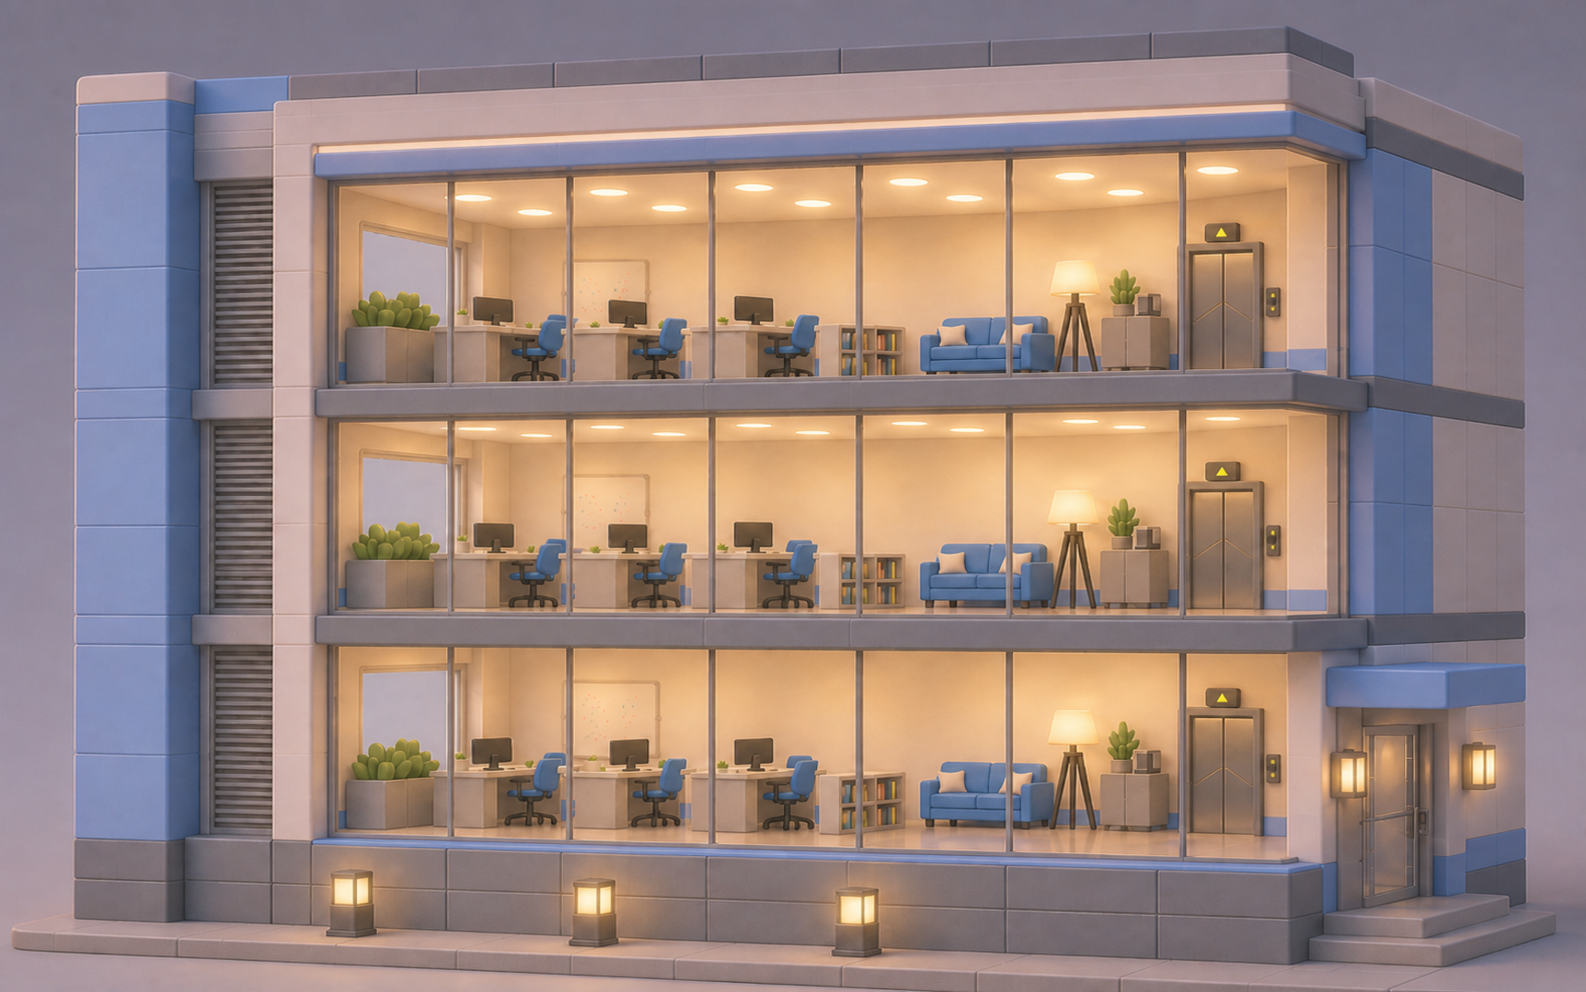
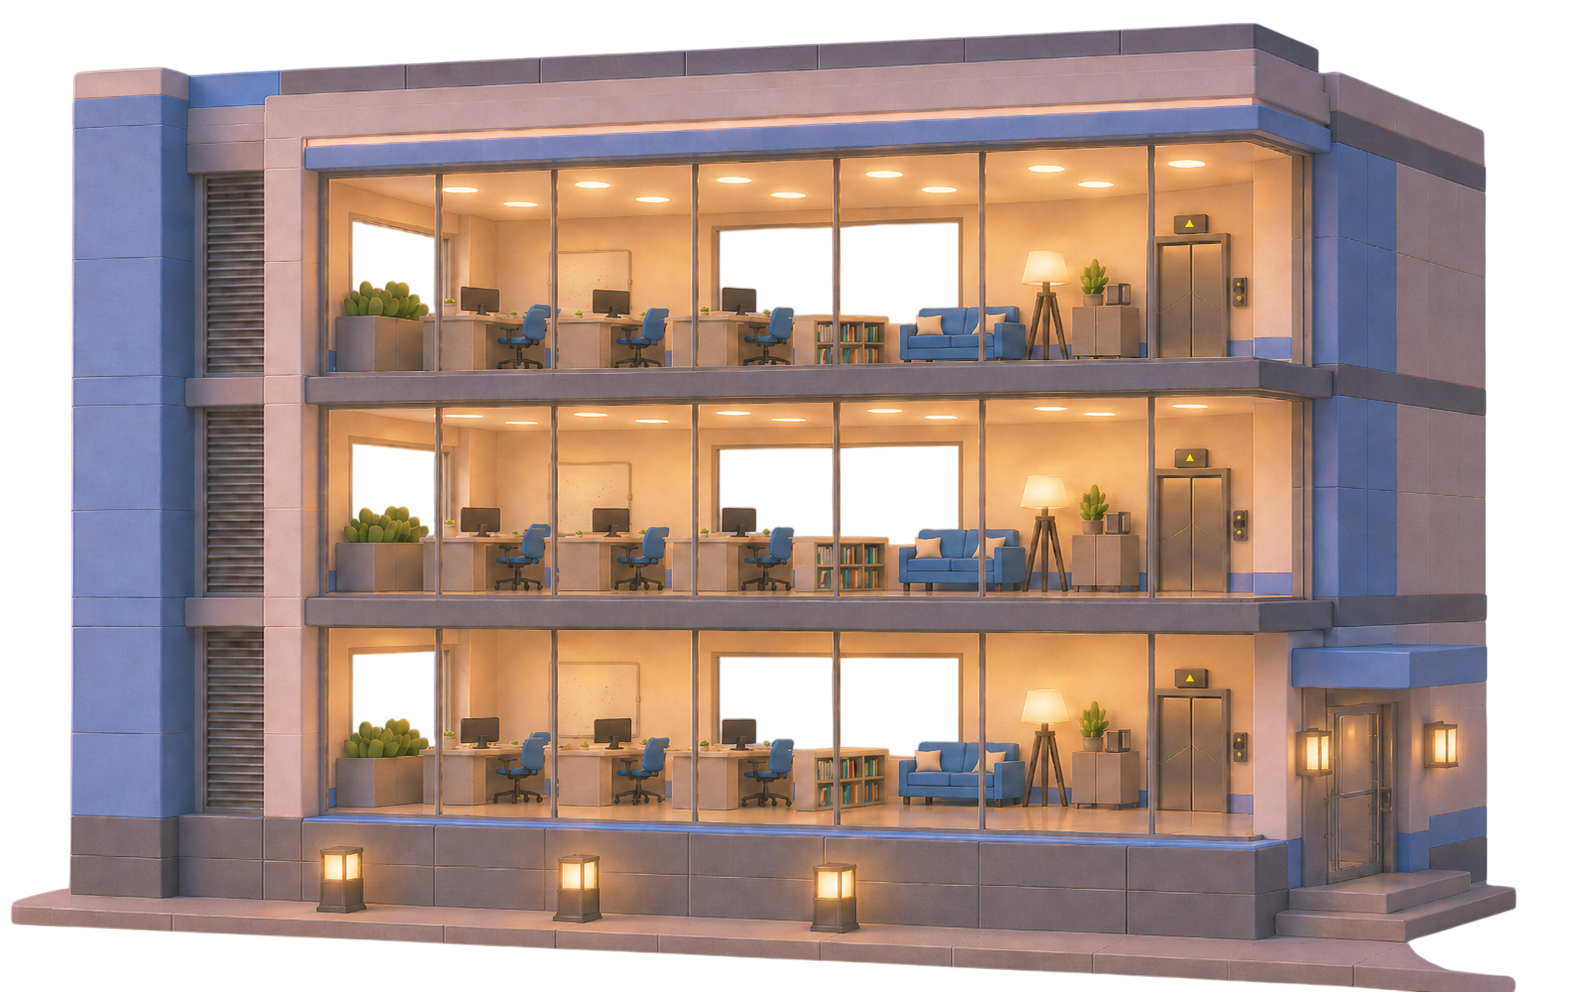
FE-design : 에이전트 전체 시각화 건물 이미지 변경

diff --git a/frontend/src/pages/AgentStatusPage.tsx b/frontend/src/pages/AgentStatusPage.tsx
@@ -618,14 +618,6 @@ export function AgentStatusPage() {
   const [selectedId, setSelectedId] = useState('agent01')
   const [ceoMode, setCeoMode] = useState<'desk' | 'explain'>('desk')
   const [panelTop, setPanelTop] = useState(false)
-  const [obstacleMode, setObstacleMode] = useState(false)
-  const [lineMode, setLineMode] = useState(false)
-  const [drawnRects, setDrawnRects] = useState<
-    { x1: number; y1: number; x2: number; y2: number }[]
-  >([])
-  const [drawnLines, setDrawnLines] = useState<
-    { x1: number; y1: number; x2: number; y2: number }[]
-  >([])
   const [navmeshGrid, setNavmeshGrid] = useState<boolean[][] | null>(null)
   const runtimeGridRef = useRef<boolean[][]>(OBSTACLE_GRID)
   const walkTimersRef = useRef<Record<string, ReturnType<typeof setTimeout> | undefined>>({})
@@ -648,22 +640,8 @@ export function AgentStatusPage() {
   }, [])
 
   useEffect(() => {
-    const g = (navmeshGrid ?? OBSTACLE_GRID).map((r) => [...r])
-    for (const rect of drawnRects) {
-      for (let gy = Math.floor(rect.y1 / CELL); gy <= Math.floor(rect.y2 / CELL); gy++) {
-        for (let gx = Math.floor(rect.x1 / CELL); gx <= Math.floor(rect.x2 / CELL); gx++) {
-          if (gy >= 0 && gy < GRID_H && gx >= 0 && gx < GRID_W) g[gy][gx] = true
-        }
-      }
-    }
-    for (const line of drawnLines) {
-      for (const cell of rasterizeLine(line.x1, line.y1, line.x2, line.y2)) {
-        if (cell.gy >= 0 && cell.gy < GRID_H && cell.gx >= 0 && cell.gx < GRID_W)
-          g[cell.gy][cell.gx] = true
-      }
-    }
-    runtimeGridRef.current = g
-  }, [drawnLines, drawnRects, navmeshGrid])
+    runtimeGridRef.current = (navmeshGrid ?? OBSTACLE_GRID).map((r) => [...r])
+  }, [navmeshGrid])
 
   const clearWalkTimer = (agentId: string) => {
     const timer = walkTimersRef.current[agentId]
@@ -737,8 +715,11 @@ export function AgentStatusPage() {
         findPath(agent.position, destPoint, passableRects, pathGrid, passableLines)
 
       const lastStop = waypoints[waypoints.length - 1]
+      // 소파는 SOFA_SPOTS의 고정 좌표를 항상 사용 — isOccupiedByAnotherAgent 반경(90px)이 소파 두 자리 간격(~51px)보다 커서 좌표가 셀 중심으로 벗어나는 문제 방지
       const finalPosition =
-        lastStop && isOccupiedByAnotherAgent(destPoint, prev, agentId) ? lastStop : destPoint
+        internalDest !== 'sofa' && lastStop && isOccupiedByAnotherAgent(destPoint, prev, agentId)
+          ? lastStop
+          : destPoint
       const allStops = waypoints
       const firstStop = allStops[0]
       if (!firstStop) {
@@ -869,61 +850,9 @@ export function AgentStatusPage() {
 
   const selectedAgent = agents.find((a) => a.config.id === selectedId)
 
-  const handleNewRect = (rect: { x1: number; y1: number; x2: number; y2: number }) => {
-    setDrawnRects((prev) => [...prev, rect])
-  }
-
-  const handleNewLine = (line: { x1: number; y1: number; x2: number; y2: number }) => {
-    setDrawnLines((prev) => [...prev, line])
-  }
-
   return (
     <div className="relative flex flex-1 overflow-hidden">
-      <OfficeMap
-        agents={agents}
-        onAgentArrived={handleAgentArrived}
-        ceoMode={ceoMode}
-        obstacleMode={obstacleMode}
-        obstacleRects={drawnRects}
-        onNewRect={handleNewRect}
-        obstacleLineMode={lineMode}
-        obstacleLines={drawnLines}
-        onNewLine={handleNewLine}
-      />
-
-      {/* 장애물 좌표 패널 */}
-      {(drawnRects.length > 0 || drawnLines.length > 0) && (
-        <div className="absolute top-4 left-4 z-20 max-w-xs">
-          <div className="flex flex-col gap-2 rounded-xl border border-red-500/40 bg-black/80 px-4 py-3 backdrop-blur-md">
-            <div className="flex items-center justify-between">
-              <span className="text-xs font-bold text-red-400">
-                장애물 좌표 (사각형 {drawnRects.length} / 선 {drawnLines.length})
-              </span>
-              <button
-                onClick={() => {
-                  setDrawnRects([])
-                  setDrawnLines([])
-                }}
-                className="text-xs text-white/40 hover:text-white"
-              >
-                전체 삭제
-              </button>
-            </div>
-            {drawnRects.length > 0 && (
-              <pre className="font-mono text-xs whitespace-pre-wrap text-green-300">
-                {drawnRects
-                  .map((r) => `{ x1: ${r.x1}, y1: ${r.y1}, x2: ${r.x2}, y2: ${r.y2} },`)
-                  .join('\n')}
-              </pre>
-            )}
-            {drawnLines.length > 0 && (
-              <pre className="font-mono text-xs whitespace-pre-wrap text-orange-300">
-                {drawnLines.map((l) => `선: (${l.x1},${l.y1})→(${l.x2},${l.y2})`).join('\n')}
-              </pre>
-            )}
-          </div>
-        </div>
-      )}
+      <OfficeMap agents={agents} onAgentArrived={handleAgentArrived} ceoMode={ceoMode} />
 
       <div className={`absolute left-1/2 z-20 -translate-x-1/2 ${panelTop ? 'top-4' : 'bottom-6'}`}>
         <div className="flex flex-col gap-2.5 rounded-2xl border border-white/20 bg-black/60 px-5 py-3 shadow-2xl backdrop-blur-md">
@@ -952,33 +881,6 @@ export function AgentStatusPage() {
               title="패널 위치 이동"
             >
               {panelTop ? '▼' : '▲'}
-            </button>
-            <div className="mx-0.5 h-4 w-px bg-white/20" />
-            <button
-              onClick={() => {
-                setObstacleMode((prev) => !prev)
-                setLineMode(false)
-              }}
-              className={`rounded-lg px-3 py-1 text-xs font-bold transition-colors ${
-                obstacleMode
-                  ? 'bg-red-500 text-white'
-                  : 'bg-white/10 text-white/60 hover:bg-white/20 hover:text-white'
-              }`}
-            >
-              {obstacleMode ? '사각형 그리기 중...' : '사각형 장애물'}
-            </button>
-            <button
-              onClick={() => {
-                setLineMode((prev) => !prev)
-                setObstacleMode(false)
-              }}
-              className={`rounded-lg px-3 py-1 text-xs font-bold transition-colors ${
-                lineMode
-                  ? 'bg-orange-500 text-white'
-                  : 'bg-white/10 text-white/60 hover:bg-white/20 hover:text-white'
-              }`}
-            >
-              {lineMode ? '선 그리기 중...' : '선 장애물'}
             </button>
             <div className="mx-0.5 h-4 w-px bg-white/20" />
             <button

diff --git a/frontend/src/pages/BuildingOverviewPage.tsx b/frontend/src/pages/BuildingOverviewPage.tsx
@@ -1,6 +1,18 @@
-import { useState } from 'react'
+import { useState, useEffect, useRef } from 'react'
 import { useNavigate } from 'react-router'
 import { FloorAgentSprite } from '@/components/office/FloorAgentSprite'
+
+const IMG_W = 1586
+const IMG_H = 992
+
+function getBuildingBgSrc(): string {
+  const hour = new Date().getHours()
+  if (hour >= 8 && hour < 16) return '/assets/maps/building_bg_day.png'
+  if (hour >= 6 && hour < 8) return '/assets/maps/building_bg_sunset.png'
+  if (hour >= 16 && hour < 18) return '/assets/maps/building_bg_sunset.png'
+  if (hour >= 18 && hour < 20) return '/assets/maps/building_bg_dusk.png'
+  return '/assets/maps/building_bg_night.png'
+}
 
 const FLOORS = [
   {
@@ -10,10 +22,10 @@ const FLOORS = [
     left: '15%',
     width: '72%',
     height: '26%',
-    agentSize: 72, // ← 에이전트 크기 (px)
-    agentBottom: -1, // ← 층 바닥 기준 위치 (%)
-    agentMinX: 40, // ← 에이전트 왼쪽 이동 한계 (%)
-    agentMaxX: 85, // ← 에이전트 오른쪽 이동 한계 (%)
+    agentSize: 90,
+    agentBottom: 4,
+    agentMinX: 40,
+    agentMaxX: 85,
     agents: [
       { agentId: 'agent01', initialXPct: 30 },
       { agentId: 'agent02', initialXPct: 55 },
@@ -27,10 +39,10 @@ const FLOORS = [
     left: '15%',
     width: '72%',
     height: '26%',
-    agentSize: 71, // ← 에이전트 크기 (px)
-    agentBottom: 5, // ← 층 바닥 기준 위치 (%)
-    agentMinX: 30, // ← 에이전트 왼쪽 이동 한계 (%)
-    agentMaxX: 85, // ← 에이전트 오른쪽 이동 한계 (%)
+    agentSize: 90,
+    agentBottom: 10,
+    agentMinX: 30,
+    agentMaxX: 85,
     agents: [
       { agentId: 'agent04', initialXPct: 30 },
       { agentId: 'agent05', initialXPct: 55 },
@@ -44,10 +56,10 @@ const FLOORS = [
     left: '15%',
     width: '68%',
     height: '25%',
-    agentSize: 70, // ← 에이전트 크기 (px)
-    agentBottom: 8, // ← 층 바닥 기준 위치 (%)
-    agentMinX: 25, // ← 에이전트 왼쪽 이동 한계 (%)
-    agentMaxX: 85, // ← 에이전트 오른쪽 이동 한계 (%)
+    agentSize: 90,
+    agentBottom: 19,
+    agentMinX: 25,
+    agentMaxX: 85,
     agents: [
       { agentId: 'agent07', initialXPct: 25 },
       { agentId: 'agent08', initialXPct: 42 },
@@ -60,26 +72,80 @@ const FLOORS = [
 export function BuildingOverviewPage() {
   const navigate = useNavigate()
   const [hoveredFloor, setHoveredFloor] = useState<string | null>(null)
+  const [bgSrc, setBgSrc] = useState(getBuildingBgSrc)
+  const containerRef = useRef<HTMLDivElement>(null)
+  const [scale, setScale] = useState(1)
+
+  useEffect(() => {
+    function scheduleNext() {
+      const now = new Date()
+      const boundaries = [6, 8, 16, 18, 20]
+      const totalMinutes = now.getHours() * 60 + now.getMinutes()
+      const nextBoundaryMinutes =
+        boundaries.map((h) => h * 60).find((m) => m > totalMinutes) ?? 6 * 60 + 24 * 60
+      const msUntilNext = (nextBoundaryMinutes - totalMinutes) * 60_000 - now.getSeconds() * 1000
+
+      return setTimeout(() => {
+        setBgSrc(getBuildingBgSrc())
+        scheduleNext()
+      }, msUntilNext)
+    }
+
+    const timer = scheduleNext()
+    return () => clearTimeout(timer)
+  }, [])
+
+  useEffect(() => {
+    const el = containerRef.current
+    if (!el) return
+    const observer = new ResizeObserver(([entry]) => {
+      const { width, height } = entry.contentRect
+      setScale(Math.min(width / IMG_W, height / IMG_H))
+    })
+    observer.observe(el)
+    return () => observer.disconnect()
+  }, [])
 
   return (
-    <div className="relative flex flex-1 items-center justify-center overflow-hidden bg-[#7e7a8e]">
-      <div
-        className="relative inline-block"
+    <div ref={containerRef} className="relative flex-1 overflow-hidden">
+      {/* 배경: 시간대별 이미지로 화면 전체 채움 */}
+      <img
+        src={bgSrc}
+        alt=""
+        draggable={false}
         style={{
-          maskImage:
-            'linear-gradient(to right, transparent 0%, black 10%, black 95%, transparent 100%), linear-gradient(to bottom, transparent 0%, black 6%, black 96%, transparent 100%)',
-          maskComposite: 'intersect',
-          WebkitMaskImage:
-            'linear-gradient(to right, transparent 0%, black 10%, black 95%, transparent 100%), linear-gradient(to bottom, transparent 0%, black 6%, black 96%, transparent 100%)',
-          WebkitMaskComposite: 'source-in',
+          position: 'absolute',
+          inset: 0,
+          width: '100%',
+          height: '100%',
+          objectFit: 'cover',
+          objectPosition: 'center',
+        }}
+      />
+
+      {/* 전경: building_overview.png + 층별 클릭 영역 */}
+      <div
+        style={{
+          position: 'absolute',
+          top: '50%',
+          left: '50%',
+          width: IMG_W,
+          height: IMG_H,
+          transform: `translate(-50%, -50%) scale(${scale})`,
+          transformOrigin: 'center center',
         }}
       >
         <img
           src="/assets/maps/building_overview.png"
           alt="Building Overview"
           draggable={false}
-          className="block select-none"
-          style={{ maxHeight: 'calc(100vh - 120px)', maxWidth: '100%' }}
+          style={{
+            position: 'absolute',
+            inset: 0,
+            width: '100%',
+            height: '100%',
+            display: 'block',
+          }}
         />
         {FLOORS.map((floor) => (
           <div

diff --git a/frontend/src/components/office/OfficeMap.tsx b/frontend/src/components/office/OfficeMap.tsx
@@ -10,7 +10,7 @@ function getOfficeMapSrc(): string {
   if (hour >= 8 && hour < 16) return '/assets/maps/office_map_day.png'
   if (hour >= 16 && hour < 18) return '/assets/maps/office_map_sunset.png'
   if (hour >= 6 && hour < 8) return '/assets/maps/office_map_sunset.png'
-  if (hour >= 18 && hour < 20) return '/assets/maps/office_map_dust.png'
+  if (hour >= 18 && hour < 20) return '/assets/maps/office_map_dusk.png'
   return '/assets/maps/office_map_night.png'
 }
 
